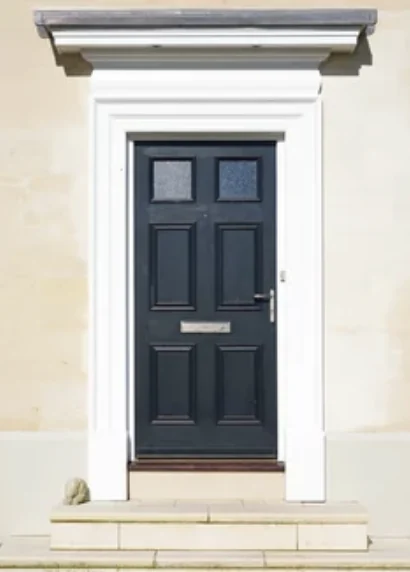
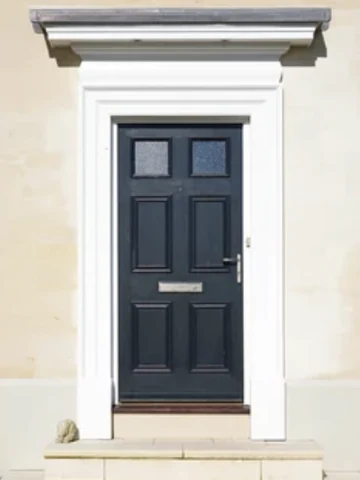
Holiday twilight hero; equal gutter and door crops; wood entry door hero; Victorian siding hero; clean 6-over-6 window grids on lighting images
Claude-Session: https://claude.ai/code/session_01477XfrkwMA9gQYivJ4i7xH

diff --git a/src/data/divisions.ts b/src/data/divisions.ts
@@ -67,7 +67,7 @@ export const divisions: Division[] = [
     galleryTitle: 'Finished to <em>match the trim.</em>',
     gallery: [
       { src: '/img/gutters-white.webp', alt: 'White seamless gutter and downspout under a white soffit against red brick', caption: 'White on brick: gutter, downspout and soffit in one colour so the roofline reads clean.', w: 1040, h: 586 },
-      { src: '/img/gutters-dark.webp', alt: 'Charcoal gutters and downspout on a modern house with cedar cladding', caption: 'Charcoal on a modern facade: the gutter runs as a line, not an afterthought.', w: 1384, h: 602 },
+      { src: '/img/gutters-dark-crop.webp', alt: 'Charcoal gutters and downspout on a modern house with cedar cladding', caption: 'Charcoal on a modern facade: the gutter runs as a line, not an afterthought.', w: 1040, h: 586 },
     ],
     description: 'Seamless gutter and downspout installation for Central Maryland homes, sized to the roof and pitched to drain. Gutter guards and repairs. MHIC #41139.',
     services: [
@@ -95,7 +95,8 @@ export const divisions: Division[] = [
     h1: 'Siding and stone, <em>straight and true.</em>',
     lede: 'Lap siding, shakes, board and batten and stone veneer, installed with even courses, tight corners and clean transitions from one material to the next.',
     image: '/img/siding-house.webp',
-    imageAlt: 'Two-storey house in grey lap siding with white trim, a covered patio and a dormer',
+    imageAlt: 'Victorian house with new grey lap siding, blue scalloped shingles in the gable, blue window trim and a white wraparound porch',
+    heroAspect: '3 / 2',
     description: 'Siding and stone veneer for Central Maryland homes: lap siding, shakes, board and batten, ledgestone and fieldstone facades, with flashed transitions. MHIC #41139.',
     services: [
       { name: 'Lap siding', text: 'Fibre cement and vinyl lap siding, from narrow clapboard to Dutch lap, run level with even exposures.' },
@@ -143,9 +144,9 @@ export const divisions: Division[] = [
     title: 'Entry and exterior door replacement in Central Maryland',
     h1: 'The front door, <em>done properly.</em>',
     lede: 'Entry, storm and patio doors hung square, sealed tight and trimmed to suit the house they open into.',
-    image: '/img/doors-navy.webp',
-    imageAlt: 'Dark navy six-panel front door with two glazed lights in a white classical surround with a cornice above stone steps',
-    heroAspect: '410 / 572',
+    image: '/img/doors-entry.webp',
+    imageAlt: 'Wood plank front door with glass sidelights and transom between stacked-stone columns under a covered entry',
+    heroAspect: '892 / 580',
     swatchSets: [
       { id: 'door-styles', label: 'Panel styles', title: 'Start with <em>the panels.</em>', body: 'The panel layout sets the character of a door before colour or hardware. These are the patterns most homes here are built around; each comes in fibreglass, steel or wood.', tall: true, items: [
         { src: '/img/door-style-1.webp', name: 'Three-panel', text: 'One tall raised panel over two. Formal and balanced.' },
@@ -158,8 +159,9 @@ export const divisions: Division[] = [
     ],
     galleryTitle: 'An entry, <em>framed.</em>',
     gallery: [
-      { src: '/img/doors-coral.webp', alt: 'Coral six-panel front door with full-height sidelights in white trim set into red brick', caption: 'Full-height sidelights on both sides turn a door into an entrance.', w: 354, h: 452 },
-      { src: '/img/doors-red.webp', alt: 'Deep red six-panel front door with a single sidelight and black hardware against white siding', caption: 'A single sidelight and dark hardware: a strong colour, kept simple.', w: 372, h: 534 },
+      { src: '/img/doors-navy.webp', alt: 'Dark navy six-panel front door with two glazed lights in a white classical surround above stone steps', caption: 'A classical surround and cornice give a plain door real presence.', w: 360, h: 480 },
+      { src: '/img/doors-coral.webp', alt: 'Coral six-panel front door with full-height sidelights in white trim set into red brick', caption: 'Full-height sidelights on both sides turn a door into an entrance.', w: 360, h: 480 },
+      { src: '/img/doors-red.webp', alt: 'Deep red six-panel front door with a single sidelight and black hardware against white siding', caption: 'A single sidelight and dark hardware: a strong colour, kept simple.', w: 360, h: 480 },
     ],
     description: 'Entry, storm and patio door replacement for Central Maryland homes, hung square and sealed, with matched trim and hardware. MHIC #41139.',
     services: [

diff --git a/src/styles/global.css b/src/styles/global.css
@@ -557,6 +557,9 @@ body.page .reveal > * { opacity: 1; transform: none; }
 .gal-item figcaption { padding: 12px 4px 4px; color: var(--stone); font-size: 0.92rem; line-height: 1.5; }
 .gal-note { margin-top: 16px; }
 .gal-grid.portrait { max-width: 780px; }
+.gal-grid.portrait.n3 { max-width: 1080px; grid-template-columns: repeat(3, minmax(0, 1fr)); }
+.gal-grid.portrait.n3 .gal-item:first-child { grid-row: auto; display: block; }
+.gal-grid.portrait.n3 .gal-item:first-child img { aspect-ratio: var(--ar); }
 .gal-grid.n4 { grid-template-columns: repeat(2, minmax(0, 1fr)); }
 .gal-grid.n4 .gal-item img { aspect-ratio: 4 / 3; }
 .materials.tall .sw-tile { aspect-ratio: 290 / 530; background: #efece6; }

diff --git a/tools/fix_lighting_windows.py b/tools/fix_lighting_windows.py
@@ -1,0 +1,71 @@
+"""Repaint the glass of the main windows in lighting-full.webp with clean
+6-over-6 muntins (the AI mockup drew bent, uneven grids), then re-cut
+lighting-stone.webp and lighting-path.webp from the fixed image."""
+import cv2, numpy as np
+from PIL import Image
+SRC = '/tmp/g/lighting-full.orig.webp'
+im = np.asarray(Image.open(SRC).convert('RGB')).astype(np.float32)
+H, W = im.shape[:2]
+# Glass quads: TL, TR, BR, BL (pixels in the 1400x1050 image).
+WINDOWS = [
+    [(838, 284), (912, 279), (912, 384), (838, 389)],   # front gable
+    [(862, 568), (937, 568), (937, 697), (862, 697)],   # stone front
+    [(651, 386), (676, 386), (676, 462), (651, 462)],   # dormer
+    [(309, 598), (331, 598), (328, 676), (309, 676)],   # left wing A
+    [(372, 598), (396, 598), (396, 681), (370, 681)],   # left wing B
+]
+out = im.copy()
+SS = 4  # draw lines supersampled for anti-aliasing
+for q in WINDOWS:
+    q = np.array(q, np.float32)
+    x0, y0 = q.min(0).astype(int) - 3; x1, y1 = q.max(0).astype(int) + 4
+    patch = im[y0:y1, x0:x1].copy()
+    # Glass without the old muntins: a wide median keeps reflections and the
+    # dark interior but drops thin bright lines.
+    dark = np.percentile(patch.reshape(-1, 3), 30, axis=0)
+    glass = np.minimum(patch, dark * 1.25)
+    glass = cv2.GaussianBlur(glass, (0, 0), max(2.0, (x1 - x0) / 7))
+    ph, pw = patch.shape[:2]
+    # Faint night-sky reflection, strongest at the top of the glass.
+    g = np.linspace(1, 0, ph)[:, None, None] ** 1.6
+    glass = glass + g * np.array([14, 16, 24], np.float32) + np.array([4, 4, 5], np.float32)
+    qm = q - [x0, y0]
+    mask = np.zeros((ph * SS, pw * SS), np.uint8)
+    cv2.fillPoly(mask, [np.round(qm * SS).astype(np.int32)], 255)
+    mask = cv2.resize(mask, (pw, ph), interpolation=cv2.INTER_AREA).astype(np.float32)[..., None] / 255
+    # Muntin colour: the window's own trim, a touch darker inside the glass.
+    ring = im[max(0, y0 - 6):y1 + 6, max(0, x0 - 6):x1 + 6].reshape(-1, 3)
+    lum = ring.mean(1); frame = ring[lum >= np.percentile(lum, 88)].mean(0) * 0.92
+    lines = np.zeros((ph * SS, pw * SS), np.uint8)
+    def P(u, v):  # bilinear point inside the quad, u across, v down
+        top = qm[0] + (qm[1] - qm[0]) * u; bot = qm[3] + (qm[2] - qm[3]) * u
+        return ((top + (bot - top) * v) * SS)
+    wpx = max(1.4, (q[1][0] - q[0][0]) / 40)
+    t = int(round(wpx * SS))
+    for u in (1 / 3, 2 / 3):                       # 3 lites across
+        cv2.line(lines, tuple(np.int32(P(u, 0))), tuple(np.int32(P(u, 1))), 255, t, cv2.LINE_AA)
+    for v in (0.25, 0.75):                         # 2 lites high per sash
+        cv2.line(lines, tuple(np.int32(P(0, v))), tuple(np.int32(P(1, v))), 255, t, cv2.LINE_AA)
+    cv2.line(lines, tuple(np.int32(P(0, 0.5))), tuple(np.int32(P(1, 0.5))), 255, int(t * 2.4), cv2.LINE_AA)  # meeting rail
+    lines = cv2.resize(lines, (pw, ph), interpolation=cv2.INTER_AREA).astype(np.float32)[..., None] / 255
+    shade = np.linspace(1.0, 0.8, ph)[:, None, None]  # rails catch less soffit light lower down
+    newp = glass * (1 - lines) + frame * shade * lines
+    out[y0:y1, x0:x1] = patch * (1 - mask) + newp * mask
+full = Image.fromarray(out.clip(0, 255).astype(np.uint8))
+full.save('public/img/lighting-full.webp', quality=88, method=6)
+# Re-cut the crops from the fixed image (same framing as before).
+def recut(orig, dst):
+    a = cv2.cvtColor(out.clip(0, 255).astype(np.uint8), cv2.COLOR_RGB2GRAY).astype(np.float32)
+    b = np.asarray(Image.open(orig).convert('L')).astype(np.float32)
+    best = None
+    for s in np.arange(0.30, 1.01, 0.005):
+        bs = cv2.resize(b, (int(b.shape[1] * s), int(b.shape[0] * s)), interpolation=cv2.INTER_AREA)
+        if bs.shape[0] > a.shape[0] or bs.shape[1] > a.shape[1]: continue
+        r = cv2.matchTemplate(a, bs, cv2.TM_CCOEFF_NORMED); _, mv, _, ml = cv2.minMaxLoc(r)
+        if best is None or mv > best[0]: best = (mv, s, ml)
+    mv, s, (x, y) = best; ob = Image.open(orig)
+    box = (x, y, x + ob.width * s, y + ob.height * s)
+    full.crop(tuple(round(v) for v in box)).resize(ob.size, Image.LANCZOS).save(dst, quality=88, method=6)
+    print(dst, round(mv, 3), round(s, 3), box)
+recut('/tmp/g/lighting-stone.orig.webp', 'public/img/lighting-stone.webp')
+recut('/tmp/g/lighting-path.orig.webp', 'public/img/lighting-path.webp')
